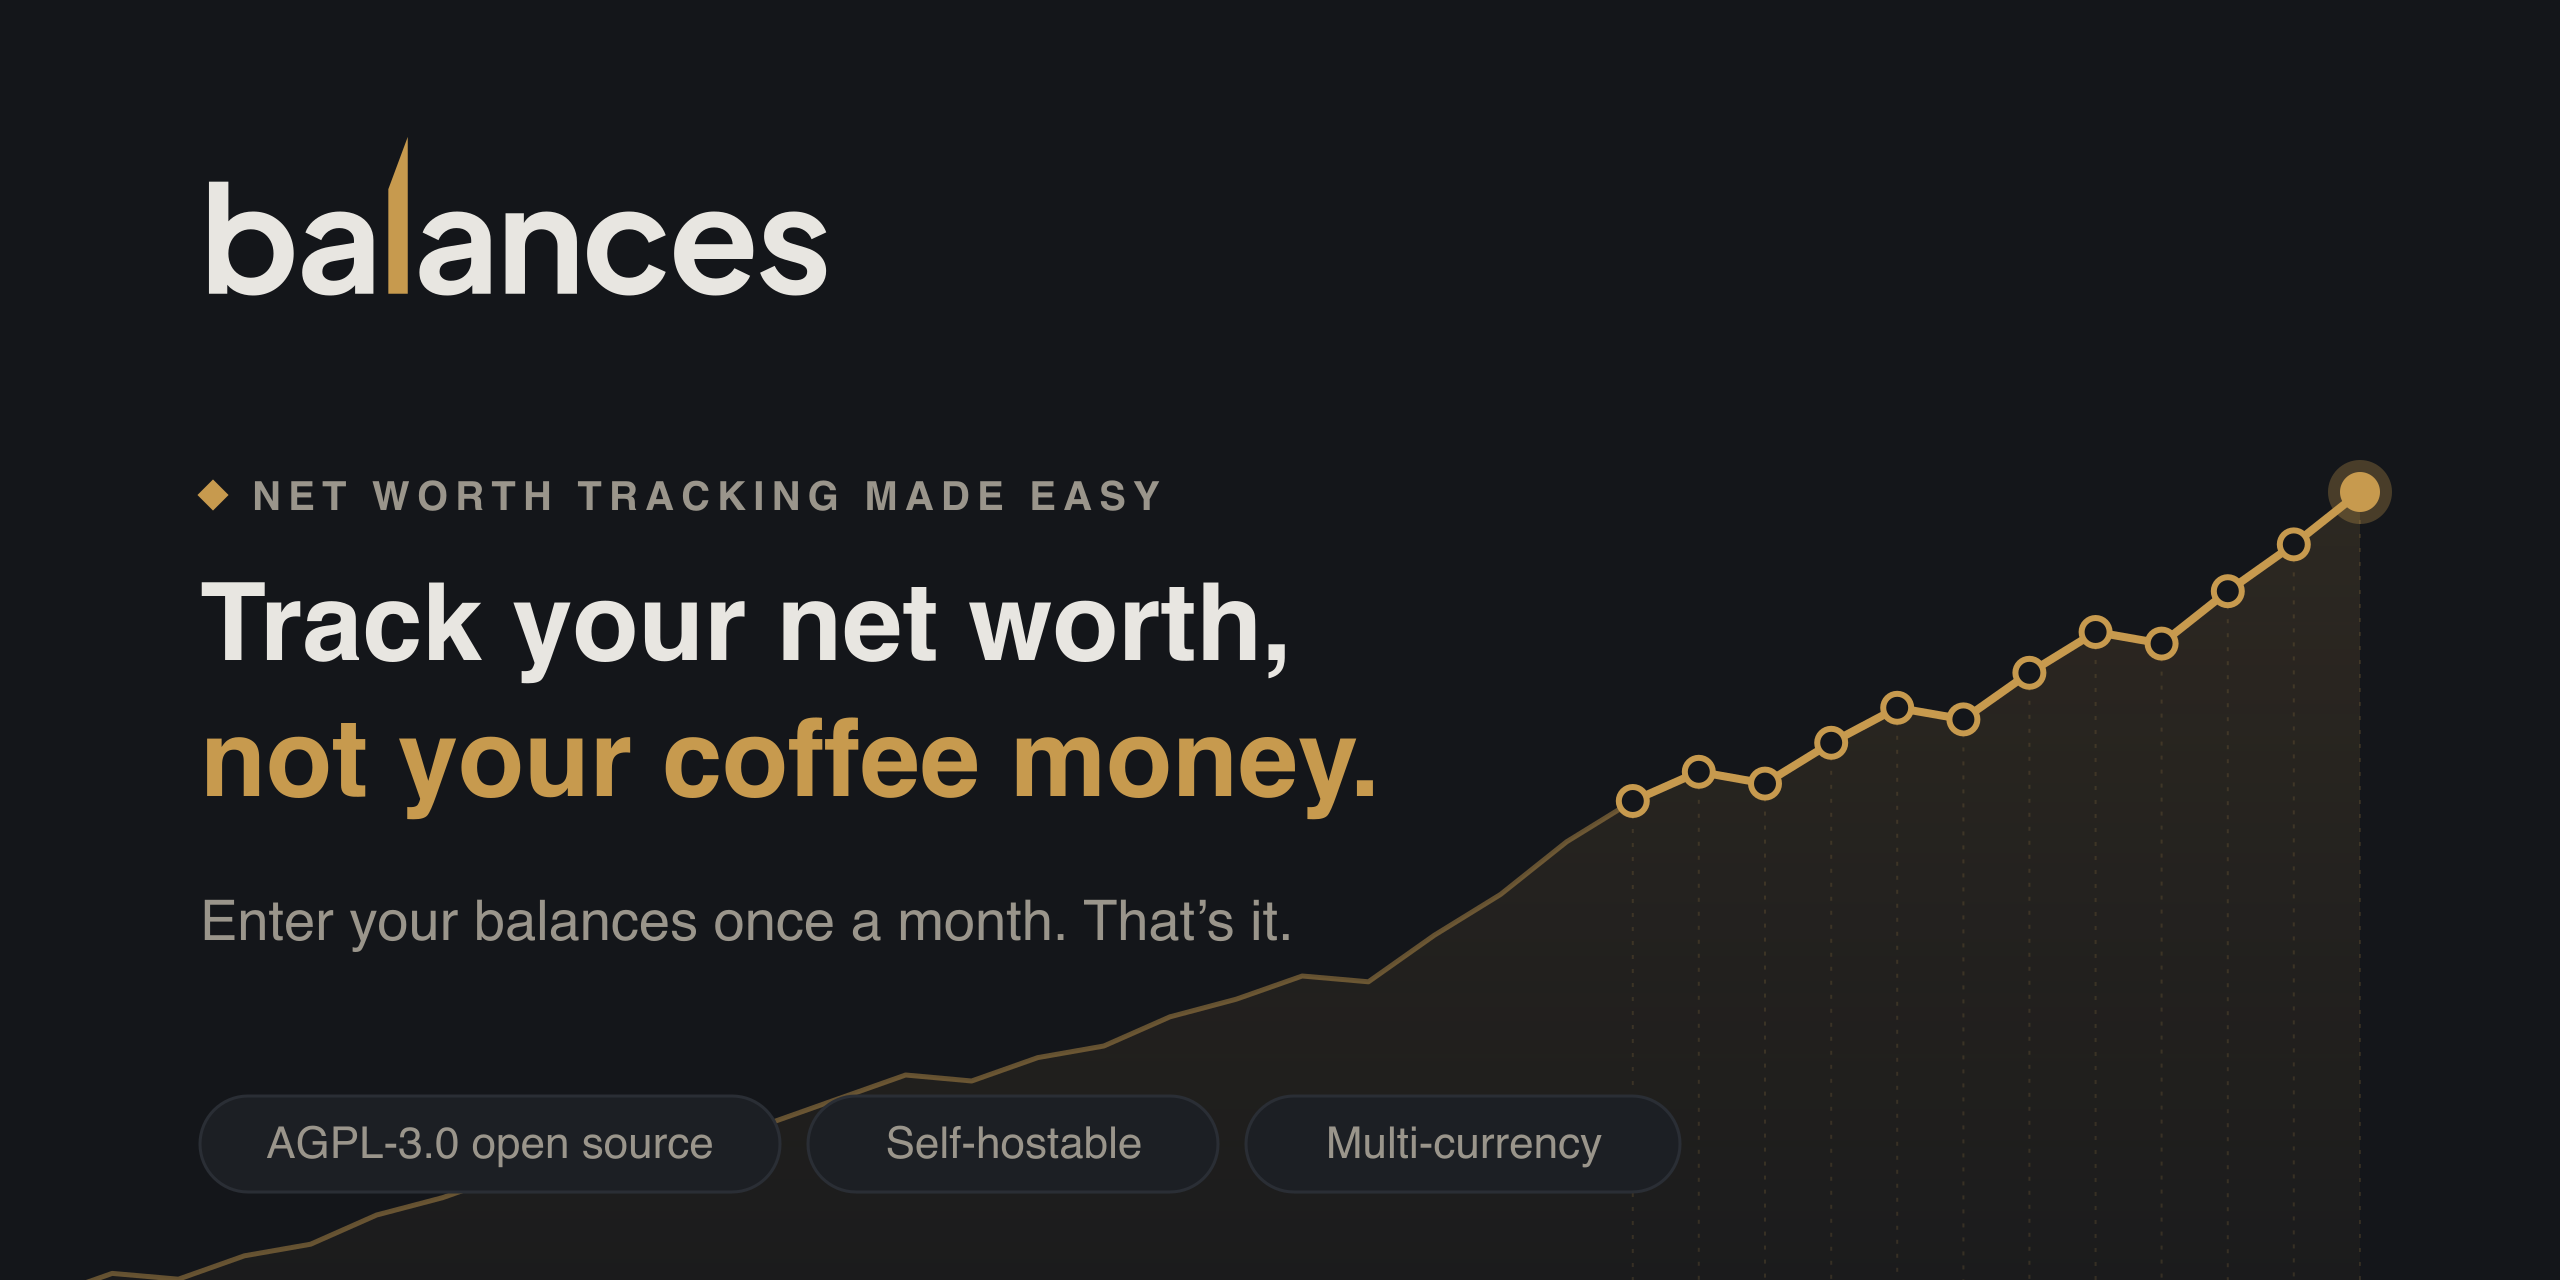
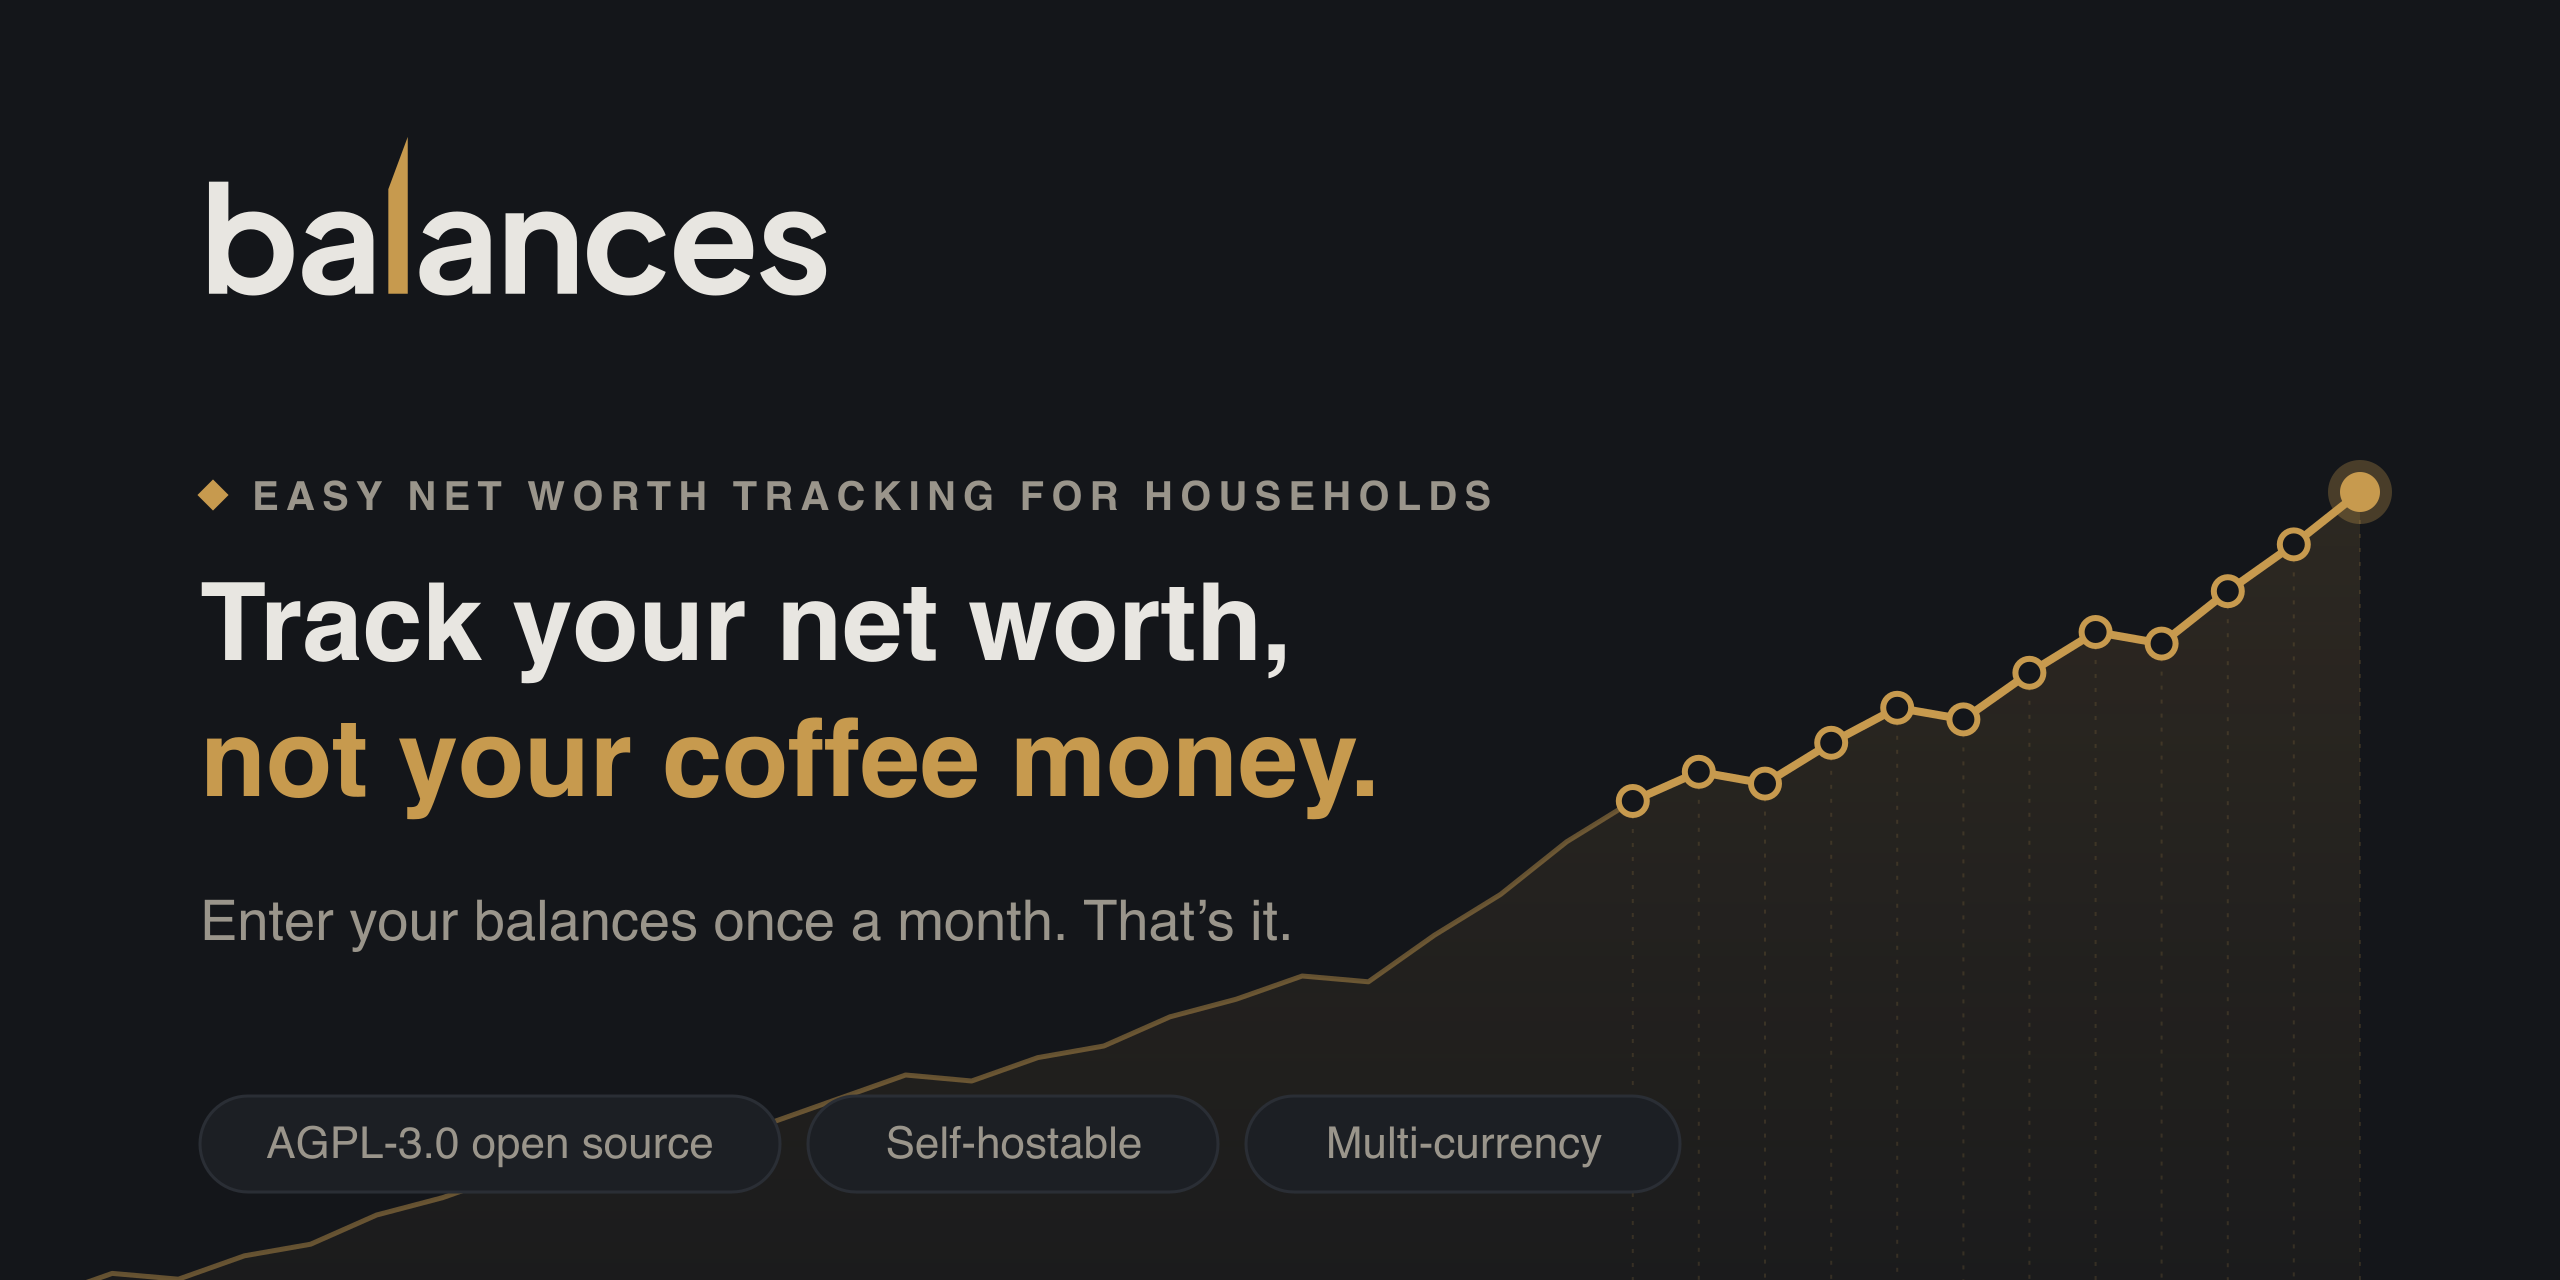
Share image: eyebrow matches the hero's new one
"Easy net worth tracking for households", as in #65.

Changed region(s): [[0.0938, 0.375, 0.5938, 0.4062]]

diff --git a/scripts/og-card.ts b/scripts/og-card.ts
@@ -90,7 +90,7 @@ const svg = `<svg xmlns="http://www.w3.org/2000/svg" viewBox="0 0 ${width} ${hei
   <circle cx="${now.x}" cy="${now.y.toFixed(1)}" r="10" fill="${brass}" stroke="${brass}" stroke-opacity="0.3" stroke-width="12" paint-order="stroke"/>
   <g transform="translate(${left - wordmarkLeftPad * wordmarkScale},64) scale(${wordmarkScale})">${wordmark}</g>
   <rect x="${left + 1}" y="242" width="11" height="11" fill="${brass}" transform="rotate(45 ${left + 6.5} 247.5)"/>
-  <text x="${left + 26}" y="255" font-family="${font}" font-weight="600" font-size="20" letter-spacing="3.6" fill="${muted}">NET WORTH TRACKING MADE EASY</text>
+  <text x="${left + 26}" y="255" font-family="${font}" font-weight="600" font-size="20" letter-spacing="3.6" fill="${muted}">EASY NET WORTH TRACKING FOR HOUSEHOLDS</text>
   <g font-family="${font}" font-weight="700" font-size="54">
     <text x="${left}" y="330" fill="${ink}">Track your net worth,</text>
     <text x="${left}" y="398" fill="${brass}">not your coffee money.</text>
